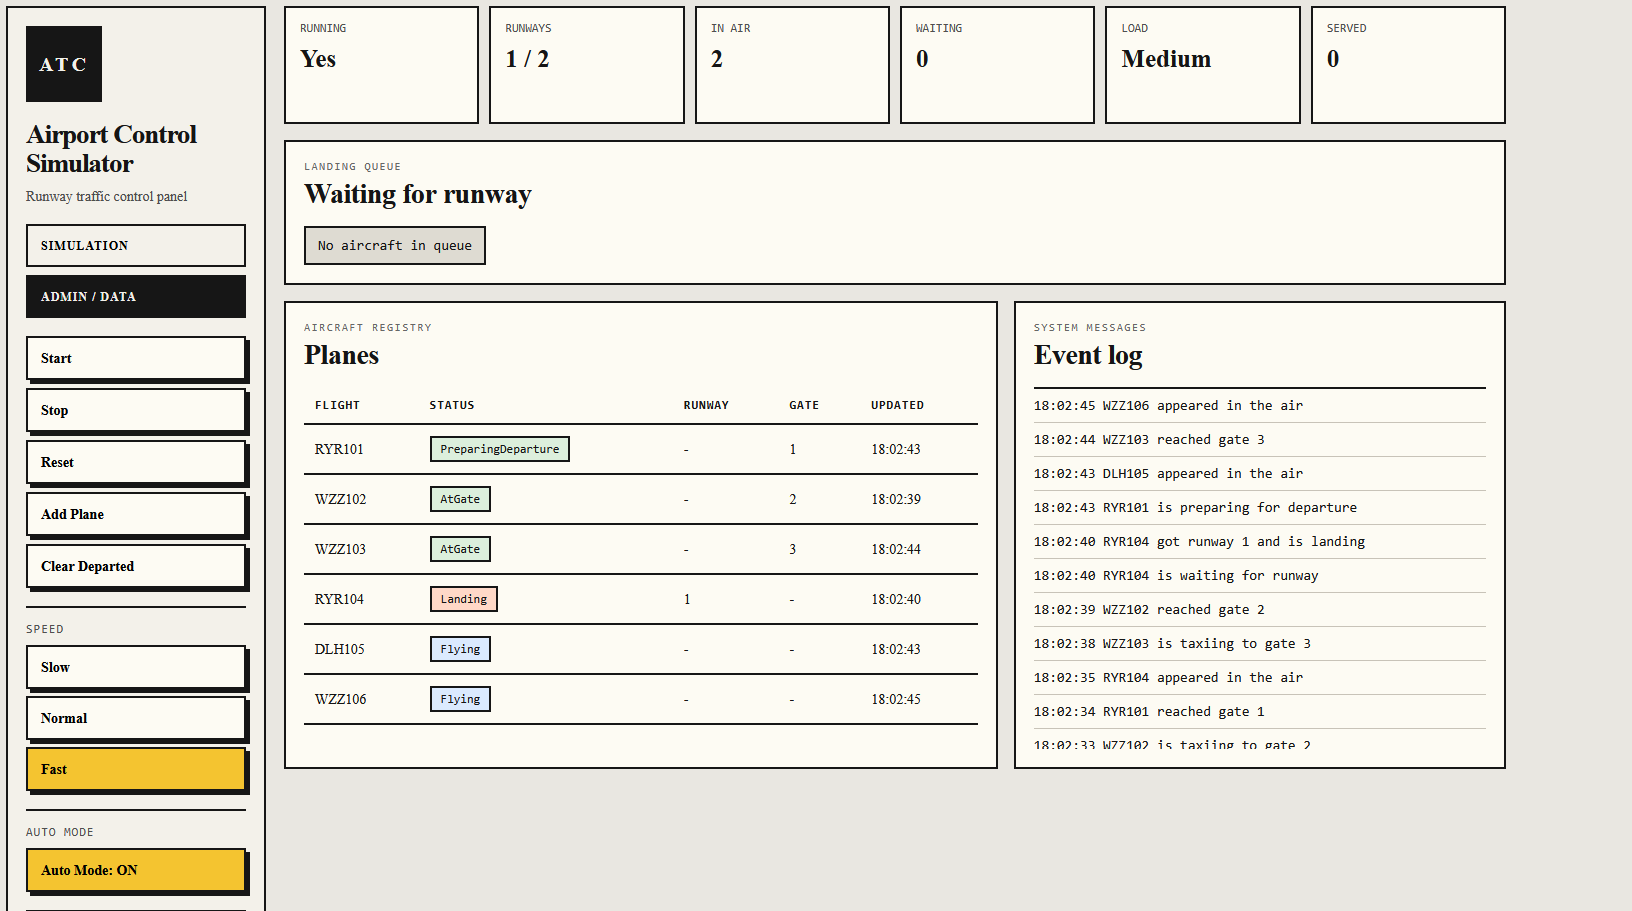
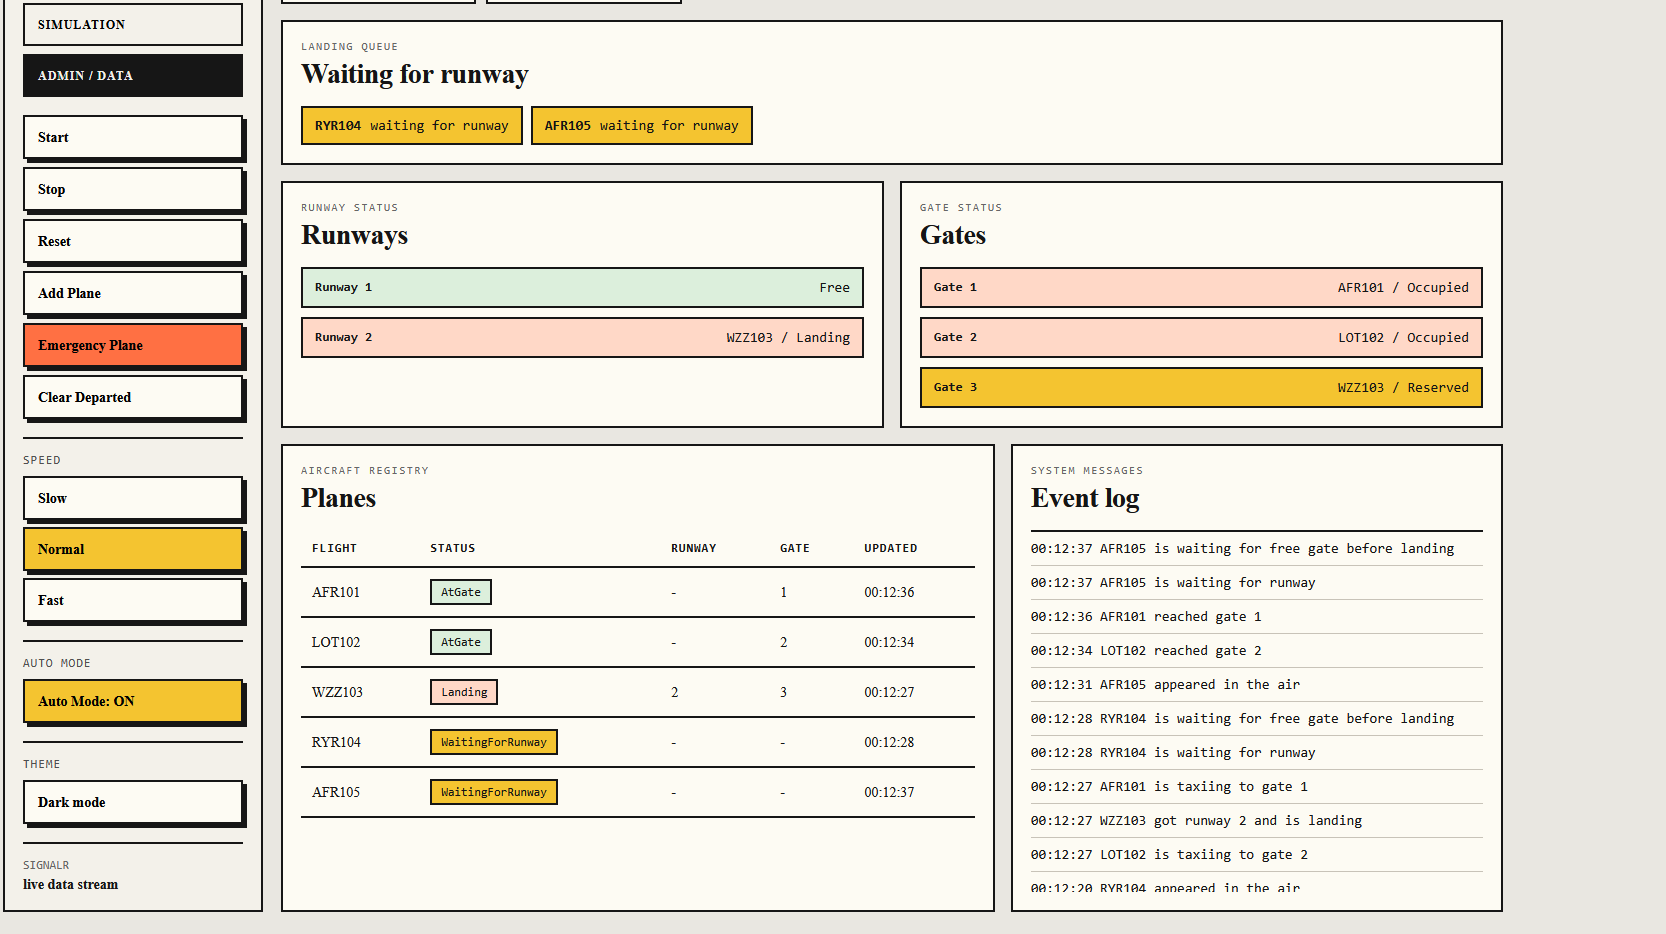
Updated Readme

Changed region(s): [[0.0, 0.0, 0.9062, 0.9835], [0.5, 0.8299, 0.5625, 0.8606], [0.4062, 0.5532, 0.4375, 0.6147]]

diff --git a/README.md b/README.md
@@ -1,115 +1,135 @@
-# Airport Control Simulator
+# ✈ Airport Control Simulator
 
-Aplikacja webowa w ASP.NET Core symulująca pracę kontroli lotniska. Samoloty pojawiają się w powietrzu, krążą w holding area, oczekują na pas startowy, lądują, kołują do bramek, przygotowują się do odlotu i startują z pasa.
+![ASP.NET Core](https://img.shields.io/badge/ASP.NET%20Core-MVC-512BD4?style=for-the-badge&logo=dotnet&logoColor=white)
+![SignalR](https://img.shields.io/badge/SignalR-Live%20Updates-00A86B?style=for-the-badge)
+![CSharp](https://img.shields.io/badge/C%23-Concurrency-239120?style=for-the-badge&logo=csharp&logoColor=white)
+![Status](https://img.shields.io/badge/Project-Ready%20to%20present-FACC15?style=for-the-badge)
 
-Projekt został przygotowany jako aplikacja zaliczeniowa pokazująca mechanizmy współbieżności, synchronizacji oraz komunikacji w czasie rzeczywistym.
+**Airport Control Simulator** to webowa symulacja pracy lotniska w ASP.NET Core.  
+Samoloty krążą w holding area, czekają na wolny gate, lądują, kołują do bramek i startują z pasa w czasie rzeczywistym.
 
-## Funkcje
+<p align="center">
+  <img src="screenshots/demo.gif" alt="Airport Control Simulator preview" width="900" />
+</p>
 
-- symulacja ruchu samolotów w czasie rzeczywistym,
-- animowana mapa lotniska SVG,
-- dwie zakładki: Simulation oraz Admin / Data,
-- start, stop i reset symulacji,
-- ręczne dodawanie samolotów,
-- tryb automatycznego generowania samolotów,
-- dodawanie samolotu awaryjnego,
-- kolejka samolotów oczekujących na pas,
-- statystyki lotniska,
-- log zdarzeń,
-- tryb jasny i ciemny,
-- czyszczenie zakończonych lotów z tabeli,
-- sterowanie szybkością symulacji przed uruchomieniem,
-- limit aktywnych samolotów,
-- status pasów startowych i bramek,
-- licznik czasu symulacji.
+---
 
-## Zastosowane mechanizmy
+## 🚀 Najważniejsze funkcje
 
-| Mechanizm | Zastosowanie |
-|---|---|
-| `lock` | zabezpiecza listę samolotów, logi, stan symulacji i statystyki |
-| `SemaphoreSlim` | ogranicza liczbę dostępnych pasów startowych |
-| `Task.Run` | uruchamia obsługę samolotów i generator samolotów w tle |
-| `async/await` | obsługuje opóźnienia etapów symulacji bez blokowania aplikacji |
-| SignalR / WebSocket | wysyła aktualny stan lotniska do przeglądarki w czasie rzeczywistym |
-| AJAX / fetch | obsługuje przyciski sterujące bez przeładowania strony |
+- ✈ animowana mapa lotniska,
+- 🛬 lądowanie i start według tras na SVG,
+- 🧵 osobne zadania dla samolotów,
+- 🚦 ograniczona liczba pasów startowych,
+- 🧱 blokowanie zajętych gate’ów,
+- 🚨 emergency plane z priorytetem,
+- 🌙 dark mode,
+- ⚡ live update przez SignalR,
+- 🧾 panel Admin / Data z logami, runwayami i gate’ami,
+- 🕒 licznik czasu symulacji,
+- 🧹 czyszczenie zakończonych lotów.
 
-## Widok aplikacji
+---
 
-### Simulation
+## 🖼 Podgląd aplikacji
+
+### 🎮 Simulation
 
 ![Simulation view](screenshots/simulation.png)
 
-### Admin / Data
+### 🧭 Admin / Data
 
 ![Admin view](screenshots/admin.png)
 
-![Admin log](screenshots/admin-log.png)
+---
 
-## Technologie
+## 🧠 Co pokazuje projekt?
 
-- ASP.NET Core MVC
-- C#
-- SignalR
-- HTML
-- CSS
-- JavaScript
-- SVG
+| Mechanizm | Rola w projekcie |
+|---|---|
+| `lock` | chroni wspólny stan symulacji |
+| `SemaphoreSlim` | ogranicza dostęp do runwayów i gate’ów |
+| `Task.Run` | uruchamia obsługę samolotów w tle |
+| `async/await` | pozwala symulować opóźnienia bez blokowania aplikacji |
+| SignalR | wysyła live update do frontendu |
+| fetch / AJAX | obsługuje przyciski bez przeładowania strony |
 
-## Uruchomienie projektu
+---
 
-Wymagane jest zainstalowane .NET SDK.
+## 🛠 Technologie
+
+```text
+ASP.NET Core MVC
+C#
+SignalR
+JavaScript
+HTML / CSS
+SVG
+```
+
+---
+
+## ▶ Uruchomienie
 
 ```powershell
 dotnet restore
 dotnet run
 ```
 
-Po uruchomieniu aplikacja będzie dostępna pod adresem pokazanym w terminalu, na przykład:
+Po uruchomieniu otwórz adres pokazany w terminalu, np.:
 
 ```text
 https://localhost:7246
 ```
 
-## Struktura projektu
+---
+
+## 🧩 Jak działa symulacja?
+
+1. Samolot pojawia się w powietrzu.
+2. Krąży w holding area.
+3. Czeka, aż będzie wolny gate.
+4. Rezerwuje gate.
+5. Czeka na wolny runway.
+6. Ląduje i kołuje do gate.
+7. Przygotowuje się do odlotu.
+8. Startuje i znika z mapy.
+
+Dzięki temu korek tworzy się głównie w powietrzu, a nie na pasie startowym.
+
+---
+
+## 🎛 Panel sterowania
+
+| Przycisk | Działanie |
+|---|---|
+| Start | uruchamia symulację |
+| Stop | zatrzymuje symulację |
+| Reset | resetuje stan lotniska |
+| Add Plane | dodaje zwykły samolot |
+| Emergency Plane | dodaje samolot awaryjny |
+| Clear Departed | czyści zakończone loty |
+| Dark mode | przełącza motyw |
+| Slow / Normal / Fast | ustawia szybkość przed startem |
+
+---
+
+## 📁 Struktura
 
 ```text
 Samoloty
 ├── Controllers
-│   └── AirportController.cs
 ├── Hubs
-│   └── AirportHub.cs
 ├── Models
-│   ├── Airplane.cs
-│   ├── AirportState.cs
-│   └── AirportStats.cs
 ├── Services
-│   └── AirportService.cs
 ├── Views
-│   └── Airport
-│       └── Index.cshtml
-└── wwwroot
-    ├── css
-    │   └── site.css
-    └── js
-        └── airport.js
+├── wwwroot
+│   ├── css
+│   └── js
+└── screenshots
 ```
 
-## Opis działania
+---
 
-Po uruchomieniu symulacji aplikacja tworzy samoloty i obsługuje każdy z nich w osobnym zadaniu. Samolot przechodzi przez kolejne etapy: lot w powietrzu, oczekiwanie na pas, lądowanie, kołowanie do bramki, postój przy bramce, przygotowanie do odlotu i start.
+## ✅ Status
 
-Dostęp do pasów startowych jest ograniczony przez `SemaphoreSlim`. Dzięki temu jednocześnie z pasa może korzystać tylko określona liczba samolotów. Wspólne dane są zabezpieczone przez `lock`, aby kilka zadań nie zmieniało ich jednocześnie.
-
-Frontend otrzymuje aktualny stan przez SignalR i aktualizuje mapę, tabelę, logi oraz statystyki bez ręcznego odświeżania strony.
-
-## Uwagi
-
-Zmiana szybkości symulacji jest wykonywana przed startem symulacji. Jeżeli symulacja już działa, aplikacja zapisuje w logach informację, że przed zmianą szybkości trzeba ją zatrzymać. Dzięki temu aktywne zadania samolotów nie są przerywane w połowie trasy.
-
-
-## Ograniczenie ruchu
-
-Aplikacja ogranicza liczbę aktywnych samolotów, aby mapa pozostała czytelna. Zwykłe samoloty nie są dodawane po przekroczeniu limitu ruchu, natomiast samolot awaryjny nadal może zostać dodany ręcznie.
-
-Gate jest rezerwowany przed lądowaniem. Dzięki temu samolot nie opuszcza holding area, dopóki nie ma dla niego miejsca przy bramce. Korek tworzy się więc w powietrzu, a nie na pasie startowym.
+Projekt jest gotowy do prezentacji i zawiera wymagane mechanizmy współbieżności oraz komunikacji live.
